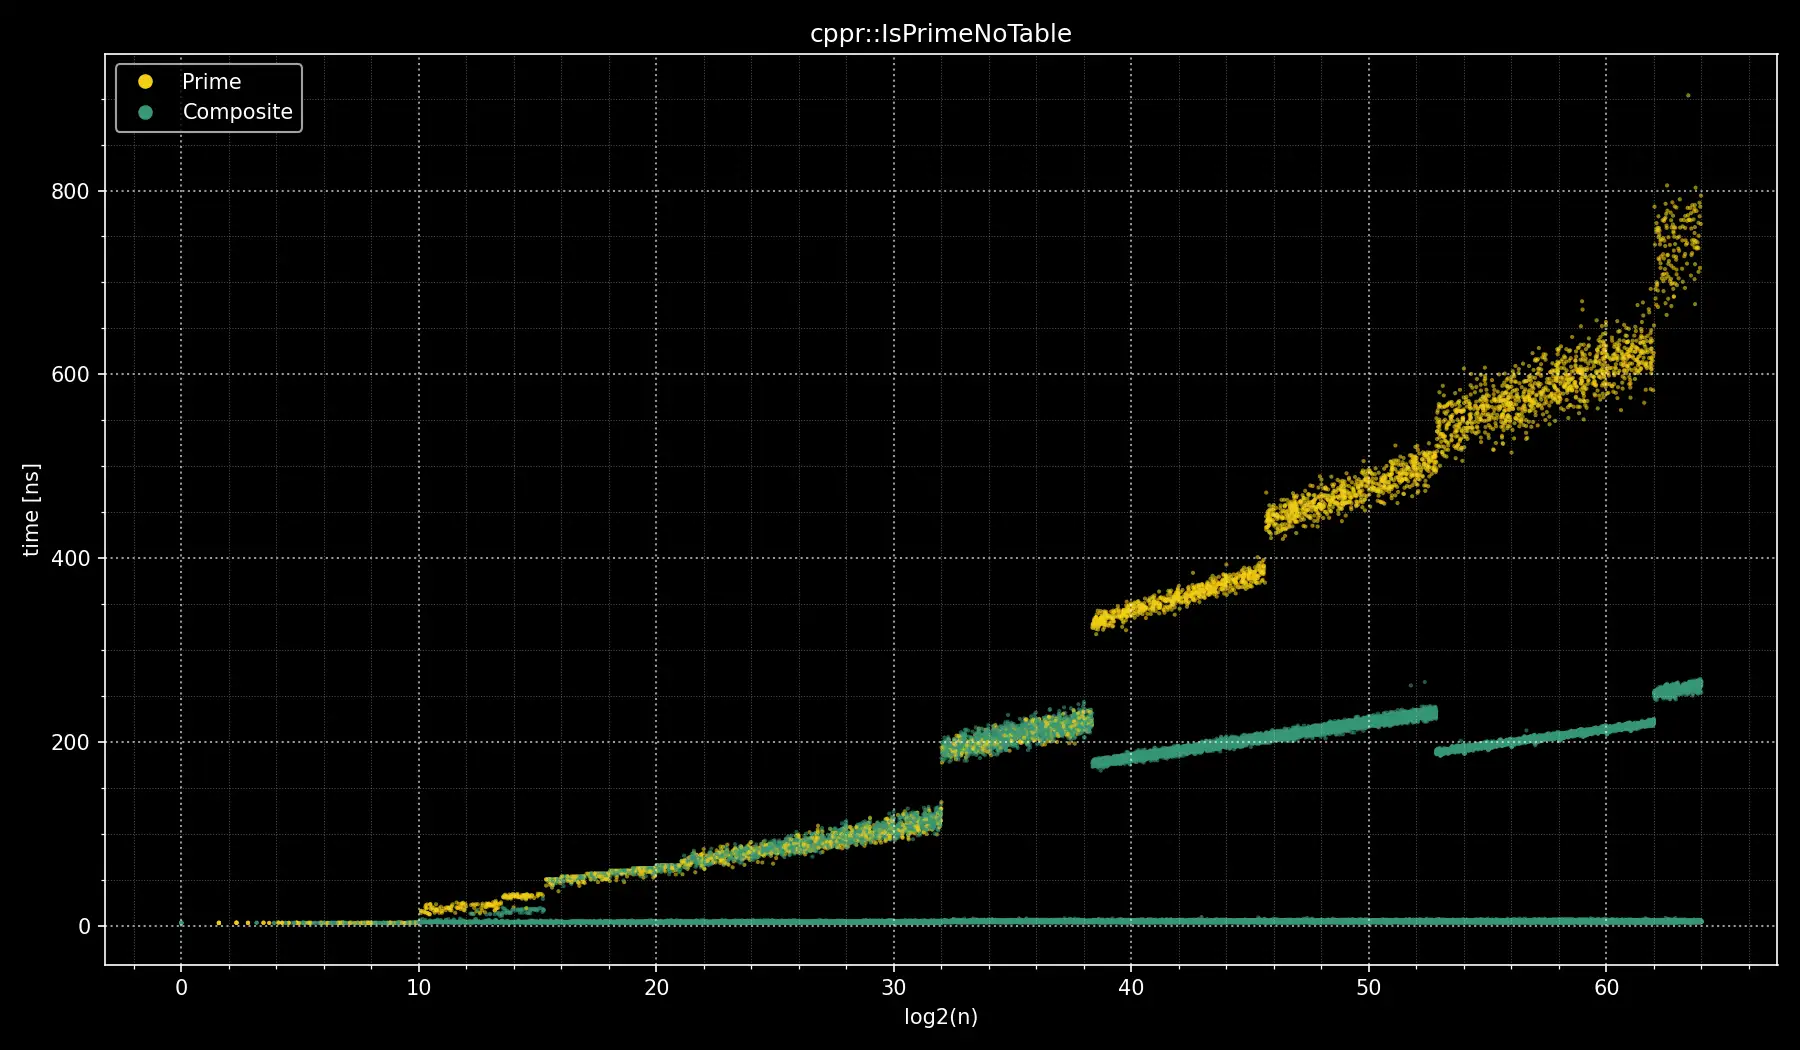
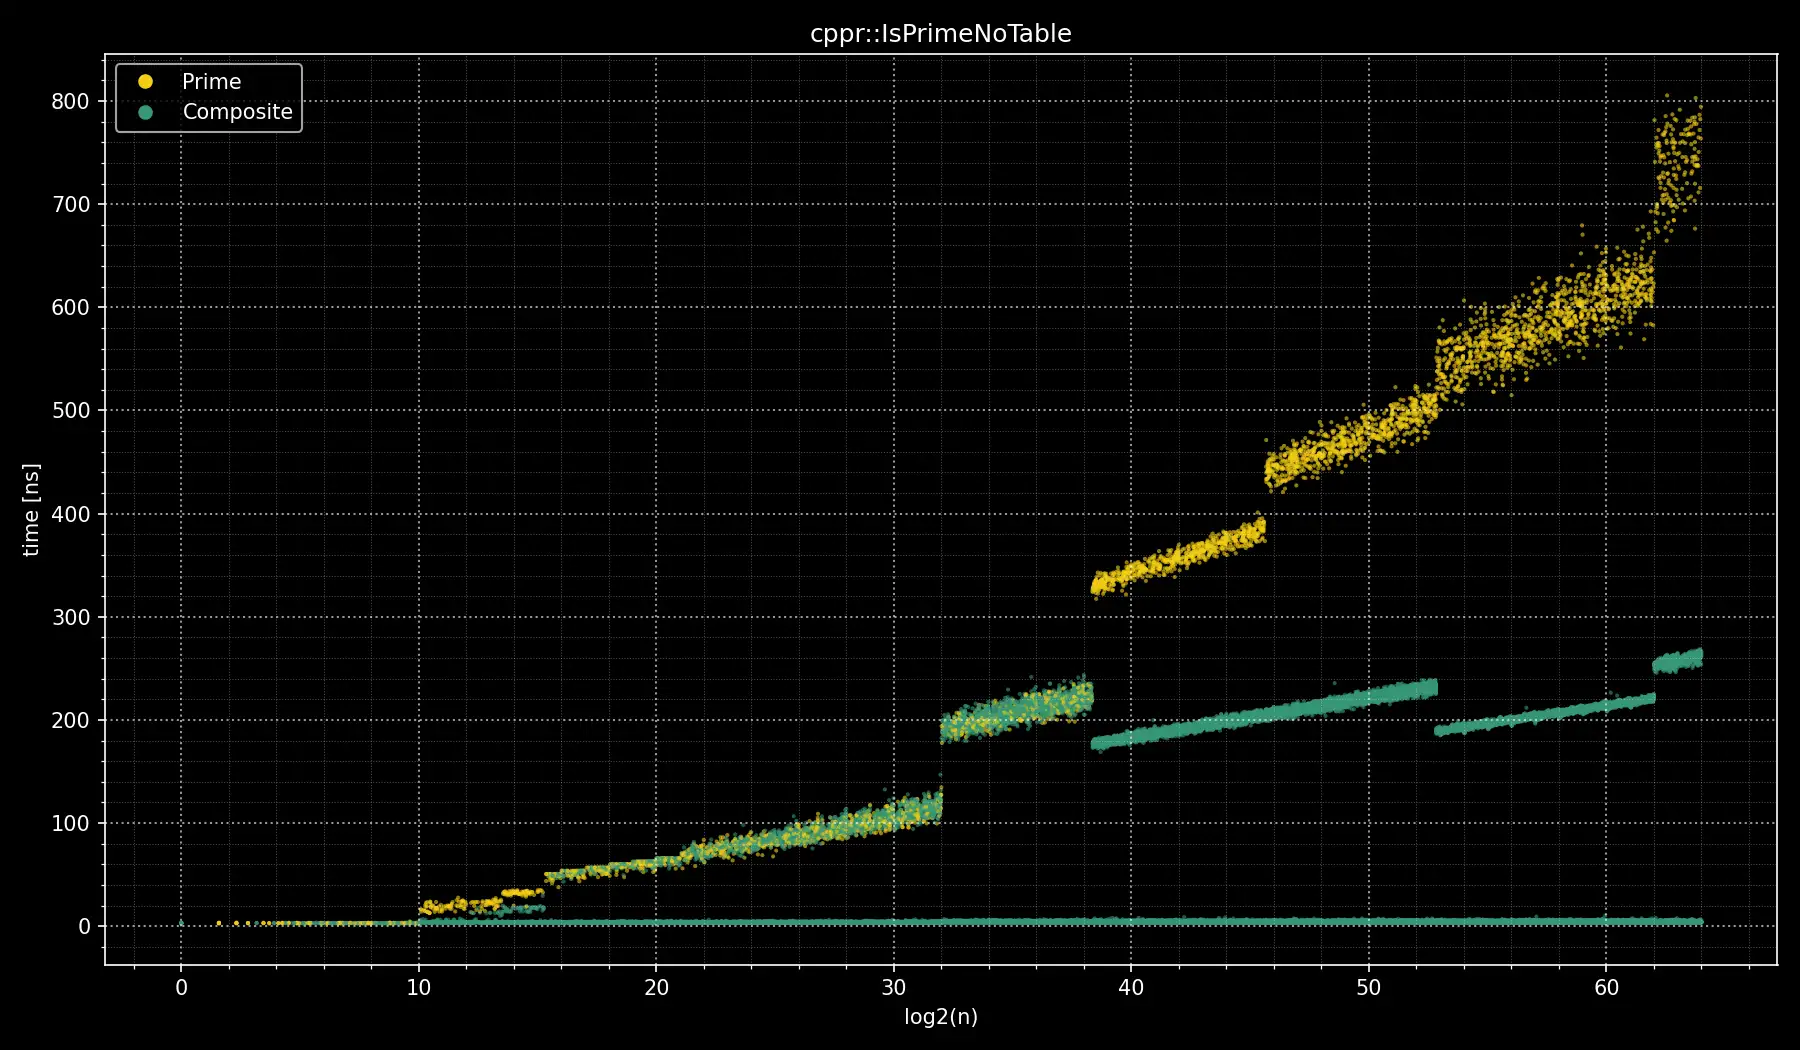
chore(bench): publish run 36138244964 2ca818b8a43ab46b2aa7ea9bfd26098f4f8df635

diff --git a/benchmarks/latest/benchmark-Windows-clang-cl/bench_summary.md b/benchmarks/latest/benchmark-Windows-clang-cl/bench_summary.md
@@ -2,19 +2,19 @@
 
 ## Overall summary
 
-- IsPrime averages 147.12 ns on prime inputs and 48.98 ns on composite inputs.
-- IsPrimeNoTable averages 258.25 ns on prime inputs and 44.77 ns on composite inputs.
+- IsPrime averages 163.71 ns on prime inputs and 54.06 ns on composite inputs.
+- IsPrimeNoTable averages 289.90 ns on prime inputs and 49.44 ns on composite inputs.
 
 ## Averages by 8-bit range (nanoseconds)
 
 | Bit range | IsPrime (prime) | IsPrimeNoTable (prime) | IsPrime (composite) | IsPrimeNoTable (composite) |
 |-----------|-----------------|------------------------|---------------------|----------------------------|
-| 1-8 | 3.09 | 2.94 | 3.03 | 2.98 |
-| 9-16 | 3.08 | 21.11 | 3.08 | 5.25 |
-| 17-24 | 56.77 | 62.48 | 14.79 | 16.45 |
-| 25-32 | 97.66 | 98.75 | 27.25 | 27.57 |
-| 33-40 | 169.49 | 249.92 | 53.84 | 67.72 |
-| 41-48 | 203.65 | 421.77 | 66.62 | 70.93 |
-| 49-56 | 287.83 | 535.06 | 96.41 | 77.38 |
-| 57-62 | 330.94 | 612.47 | 113.12 | 75.86 |
-| 63-64 | 356.62 | 730.86 | 121.83 | 90.22 |
+| 1-8 | 3.12 | 3.00 | 3.00 | 3.01 |
+| 9-16 | 3.01 | 21.01 | 3.03 | 4.92 |
+| 17-24 | 63.19 | 69.69 | 16.01 | 17.44 |
+| 25-32 | 109.64 | 109.79 | 30.03 | 29.74 |
+| 33-40 | 187.17 | 280.92 | 58.91 | 74.96 |
+| 41-48 | 224.73 | 475.68 | 72.96 | 78.99 |
+| 49-56 | 321.53 | 601.46 | 107.39 | 86.27 |
+| 57-62 | 370.82 | 687.34 | 126.20 | 84.49 |
+| 63-64 | 396.42 | 824.96 | 134.91 | 100.93 |

diff --git a/benchmarks/latest/benchmark-Windows-msvc/bench_summary.md b/benchmarks/latest/benchmark-Windows-msvc/bench_summary.md
@@ -2,19 +2,19 @@
 
 ## Overall summary
 
-- IsPrime averages 155.47 ns on prime inputs and 51.18 ns on composite inputs.
-- IsPrimeNoTable averages 301.82 ns on prime inputs and 53.51 ns on composite inputs.
+- IsPrime averages 120.85 ns on prime inputs and 39.73 ns on composite inputs.
+- IsPrimeNoTable averages 234.53 ns on prime inputs and 41.59 ns on composite inputs.
 
 ## Averages by 8-bit range (nanoseconds)
 
 | Bit range | IsPrime (prime) | IsPrimeNoTable (prime) | IsPrime (composite) | IsPrimeNoTable (composite) |
 |-----------|-----------------|------------------------|---------------------|----------------------------|
-| 1-8 | 2.25 | 2.02 | 2.00 | 2.00 |
-| 9-16 | 2.25 | 23.07 | 2.01 | 5.17 |
-| 17-24 | 61.71 | 68.99 | 15.52 | 17.78 |
-| 25-32 | 109.13 | 109.47 | 29.97 | 30.31 |
-| 33-40 | 181.52 | 280.12 | 57.31 | 74.67 |
-| 41-48 | 218.16 | 473.83 | 70.97 | 75.98 |
-| 49-56 | 299.81 | 647.41 | 100.22 | 102.97 |
-| 57-62 | 344.55 | 765.13 | 117.20 | 110.86 |
-| 63-64 | 365.50 | 793.42 | 124.97 | 92.67 |
+| 1-8 | 1.68 | 1.37 | 1.36 | 1.40 |
+| 9-16 | 1.68 | 17.86 | 1.40 | 4.02 |
+| 17-24 | 47.92 | 53.53 | 11.98 | 13.86 |
+| 25-32 | 84.84 | 85.17 | 23.28 | 23.58 |
+| 33-40 | 141.05 | 217.53 | 44.53 | 58.07 |
+| 41-48 | 169.53 | 368.15 | 55.16 | 59.05 |
+| 49-56 | 233.05 | 502.96 | 77.90 | 80.04 |
+| 57-62 | 267.94 | 595.36 | 91.19 | 86.19 |
+| 63-64 | 284.80 | 616.11 | 96.98 | 72.02 |

diff --git a/benchmarks/latest/benchmark-Linux-clang/bench_summary.md b/benchmarks/latest/benchmark-Linux-clang/bench_summary.md
@@ -2,19 +2,19 @@
 
 ## Overall summary
 
-- IsPrime averages 137.22 ns on prime inputs and 45.36 ns on composite inputs.
-- IsPrimeNoTable averages 248.75 ns on prime inputs and 42.87 ns on composite inputs.
+- IsPrime averages 137.20 ns on prime inputs and 45.36 ns on composite inputs.
+- IsPrimeNoTable averages 248.66 ns on prime inputs and 42.52 ns on composite inputs.
 
 ## Averages by 8-bit range (nanoseconds)
 
 | Bit range | IsPrime (prime) | IsPrimeNoTable (prime) | IsPrime (composite) | IsPrimeNoTable (composite) |
 |-----------|-----------------|------------------------|---------------------|----------------------------|
-| 1-8 | 1.90 | 3.23 | 1.91 | 3.23 |
-| 9-16 | 1.90 | 21.37 | 1.90 | 5.54 |
-| 17-24 | 55.68 | 63.89 | 14.18 | 16.95 |
-| 25-32 | 96.67 | 97.39 | 26.64 | 27.40 |
-| 33-40 | 153.44 | 235.30 | 48.67 | 64.34 |
-| 41-48 | 183.70 | 390.41 | 59.99 | 65.30 |
-| 49-56 | 266.11 | 511.81 | 89.12 | 72.50 |
-| 57-62 | 306.87 | 600.43 | 104.76 | 73.44 |
-| 63-64 | 365.16 | 742.39 | 124.15 | 90.72 |
+| 1-8 | 1.90 | 2.99 | 1.90 | 3.00 |
+| 9-16 | 1.90 | 21.36 | 1.90 | 5.14 |
+| 17-24 | 55.65 | 63.89 | 14.17 | 16.57 |
+| 25-32 | 96.63 | 97.39 | 26.66 | 27.05 |
+| 33-40 | 153.38 | 235.30 | 48.67 | 63.98 |
+| 41-48 | 183.74 | 390.31 | 59.99 | 64.94 |
+| 49-56 | 266.02 | 511.84 | 89.10 | 72.15 |
+| 57-62 | 306.88 | 600.38 | 104.76 | 73.09 |
+| 63-64 | 365.11 | 740.88 | 124.17 | 90.39 |

diff --git a/benchmarks/latest/benchmark-Linux-gcc/bench_summary.md b/benchmarks/latest/benchmark-Linux-gcc/bench_summary.md
@@ -2,19 +2,19 @@
 
 ## Overall summary
 
-- IsPrime averages 137.22 ns on prime inputs and 45.37 ns on composite inputs.
-- IsPrimeNoTable averages 248.65 ns on prime inputs and 42.45 ns on composite inputs.
+- IsPrime averages 137.21 ns on prime inputs and 45.45 ns on composite inputs.
+- IsPrimeNoTable averages 248.89 ns on prime inputs and 43.83 ns on composite inputs.
 
 ## Averages by 8-bit range (nanoseconds)
 
 | Bit range | IsPrime (prime) | IsPrimeNoTable (prime) | IsPrime (composite) | IsPrimeNoTable (composite) |
 |-----------|-----------------|------------------------|---------------------|----------------------------|
-| 1-8 | 1.90 | 2.92 | 1.90 | 2.93 |
-| 9-16 | 1.90 | 21.30 | 1.90 | 5.11 |
-| 17-24 | 55.64 | 63.90 | 14.19 | 16.55 |
-| 25-32 | 96.66 | 97.40 | 26.65 | 27.04 |
-| 33-40 | 153.37 | 235.30 | 48.67 | 63.88 |
-| 41-48 | 183.72 | 390.31 | 59.99 | 64.84 |
-| 49-56 | 266.08 | 511.83 | 89.13 | 72.05 |
-| 57-62 | 307.02 | 600.41 | 104.77 | 72.99 |
-| 63-64 | 365.10 | 740.87 | 124.18 | 90.28 |
+| 1-8 | 1.90 | 4.10 | 1.92 | 4.14 |
+| 9-16 | 1.91 | 21.94 | 1.91 | 6.69 |
+| 17-24 | 55.64 | 63.94 | 14.26 | 17.97 |
+| 25-32 | 96.62 | 97.52 | 26.74 | 28.42 |
+| 33-40 | 153.37 | 235.31 | 48.80 | 65.27 |
+| 41-48 | 183.69 | 390.32 | 60.12 | 66.22 |
+| 49-56 | 266.14 | 511.82 | 89.24 | 73.40 |
+| 57-62 | 306.91 | 600.43 | 104.90 | 74.32 |
+| 63-64 | 365.13 | 740.87 | 124.29 | 91.61 |
